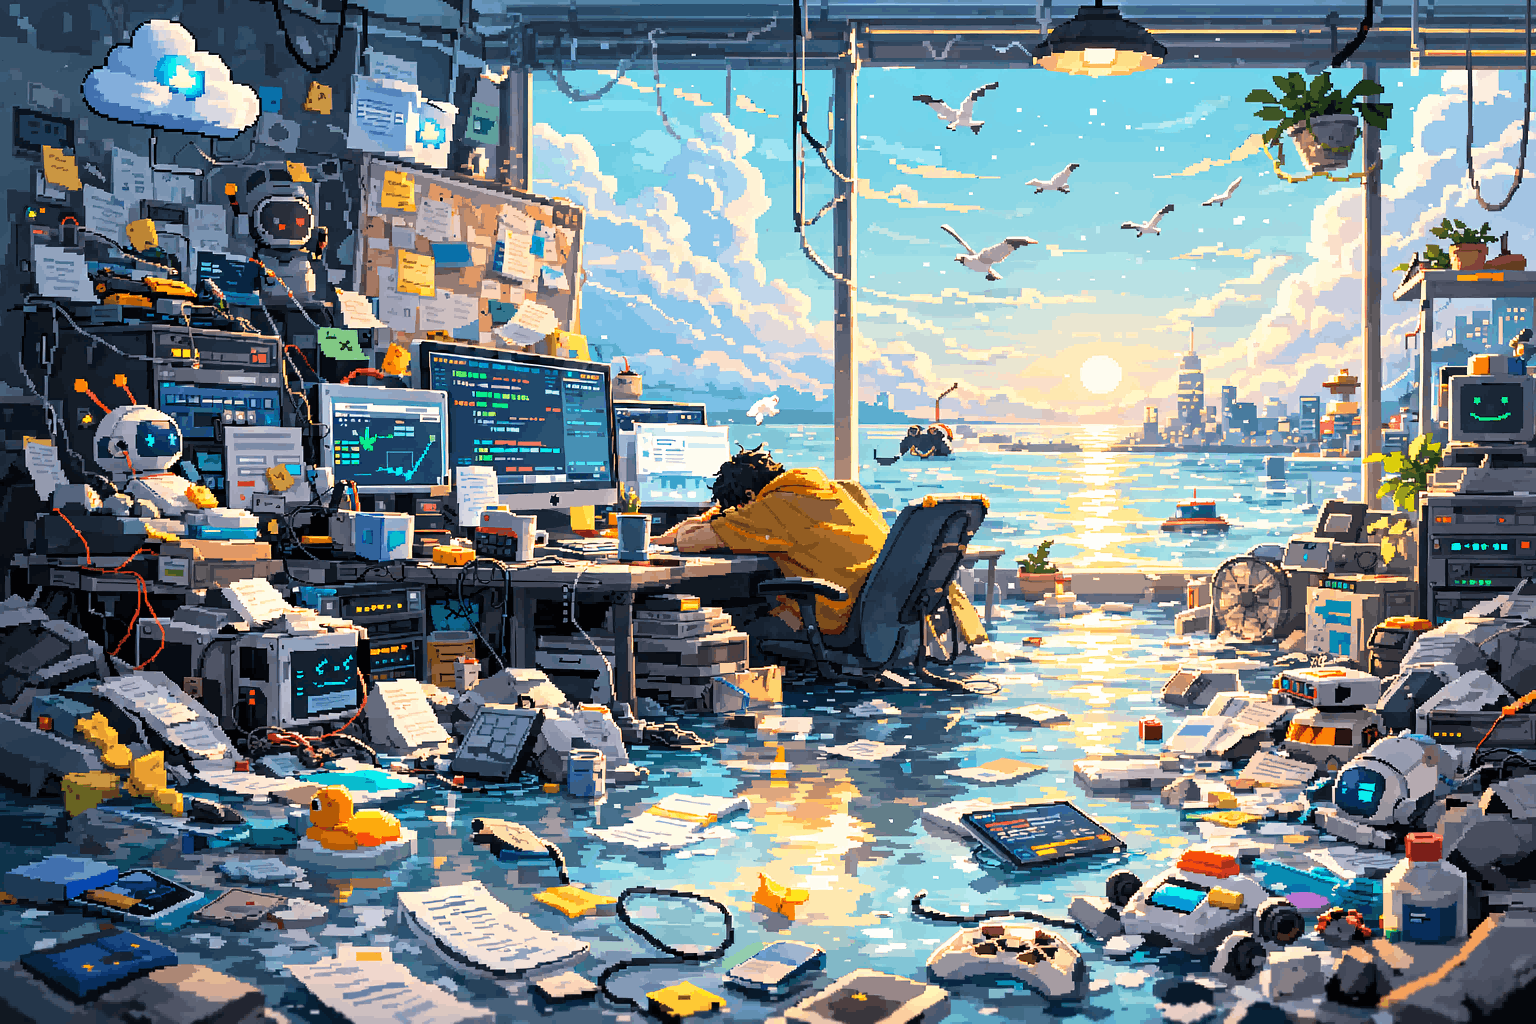
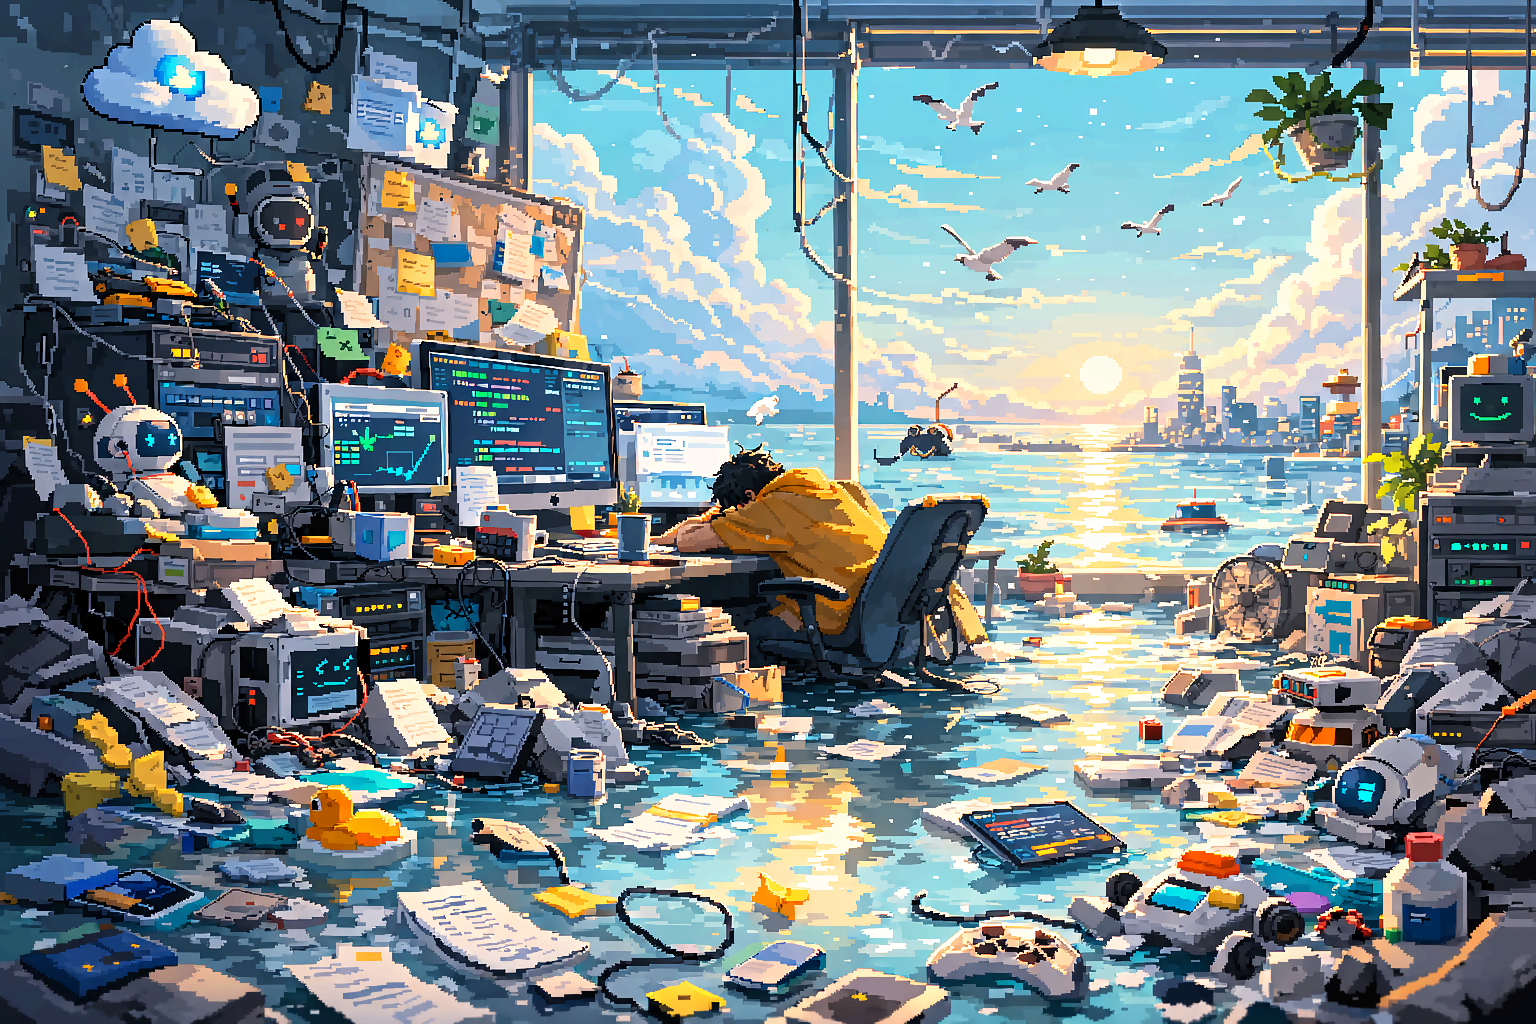
Restore native detail across the scene and keep cloud joins crisp

diff --git a/index.html b/index.html
@@ -8,38 +8,38 @@
   <title>jaq/li</title>
   <link rel="icon" href="./assets/favicon.svg" type="image/svg+xml" />
   <link rel="stylesheet" href="./styles.css?v=20261111-days42" />
-  <link rel="preload" href="./assets/scene-seed.webp?v=20261111-clarity46" as="image" fetchpriority="high" />
-  <script type="module" src="./scene-intro.js?v=20261111-clarity46"></script>
-  <link rel="preload" href="./assets/scene.webp?v=20261111-clarity46" as="fetch" crossorigin="anonymous" fetchpriority="low" />
-  <link rel="modulepreload" href="./pixel-scene.js?v=20261111-clarity46" />
+  <link rel="preload" href="./assets/scene-seed.webp?v=20261111-detail47" as="image" fetchpriority="high" />
+  <script type="module" src="./scene-intro.js?v=20261111-detail47"></script>
+  <link rel="preload" href="./assets/scene.webp?v=20261111-detail47" as="fetch" crossorigin="anonymous" fetchpriority="low" />
+  <link rel="modulepreload" href="./pixel-scene.js?v=20261111-detail47" />
   <link rel="modulepreload" href="./scene-extras.js?v=20261111-layer44" />
   <link rel="modulepreload" href="./scene-additions.js?v=20261111-edge45" />
   <link rel="modulepreload" href="./scene-deform.js?v=20261111-layer44" />
   <link rel="modulepreload" href="./scene-fan.js?v=20261111-sky43" />
   <link rel="modulepreload" href="./scene-time.js?v=20261111-layer44" />
   <link rel="modulepreload" href="./scene-beacon.js?v=20261111-layer44" />
-  <link rel="modulepreload" href="./scene-sky-matte.js?v=20261111-clarity46" />
-  <link rel="modulepreload" href="./scene-shelf-matte.js?v=20261111-clarity46" />
-  <link rel="modulepreload" href="./scene-sky.js?v=20261111-clarity46" />
+  <link rel="modulepreload" href="./scene-sky-matte.js?v=20261111-detail47" />
+  <link rel="modulepreload" href="./scene-shelf-matte.js?v=20261111-detail47" />
+  <link rel="modulepreload" href="./scene-sky.js?v=20261111-detail47" />
   <link rel="modulepreload" href="./scene-foliage.js?v=20261111-layer44" />
   <link rel="modulepreload" href="./scene-objects.js?v=20261111-sky43" />
-  <link rel="modulepreload" href="./site.config.js?v=20261111-clarity46" />
+  <link rel="modulepreload" href="./site.config.js?v=20261111-detail47" />
   <link rel="modulepreload" href="./scene-details.js?v=20261111-edge45" />
   <link rel="modulepreload" href="./screen-content.js?v=20261111-detail39" />
   <link rel="modulepreload" href="./scene-geometry.js?v=20261110-fps10" />
   <link rel="modulepreload" href="./scene-lights.js?v=20261111-flow28" />
   <link rel="modulepreload" href="./water-ripples.js?v=20261111-flow28" />
   <link rel="modulepreload" href="./navigation.js?v=20261111-detail39" />
-  <script type="module" src="./app.js?v=20261111-clarity46"></script>
+  <script type="module" src="./app.js?v=20261111-detail47"></script>
 </head>
 <body class="home pixel-home">
   <main id="scene-viewport" class="scene-viewport" aria-label="可探索的海边工作室">
     <div id="scene-world" class="scene-world">
       <img id="scene-image" class="scene-image" alt="海边工作室：电脑屏幕通往技术博客，人物通往个人 CV。" />
       <div class="scene-art">
-      <img id="scene-poster" class="scene-poster" data-src="./assets/scene.webp?v=20261111-clarity46" alt="" aria-hidden="true" />
+      <img id="scene-poster" class="scene-poster" data-src="./assets/scene.webp?v=20261111-detail47" alt="" aria-hidden="true" />
       <canvas id="scene-intro" aria-hidden="true"></canvas>
-      <noscript><img class="scene-poster" src="./assets/scene.webp?v=20261111-clarity46" style="display:block" alt="" /></noscript>
+      <noscript><img class="scene-poster" src="./assets/scene.webp?v=20261111-detail47" style="display:block" alt="" /></noscript>
       <canvas id="ascii-canvas" aria-hidden="true"></canvas>
       <canvas id="screen-canvas" aria-hidden="true"></canvas>
       </div>

diff --git a/scene-sky.js b/scene-sky.js
@@ -1,5 +1,5 @@
-import { prepareShelfMatte } from './scene-shelf-matte.js?v=20261111-clarity46';
-import { skyApertures, skyForeground, skyWires, sillSkyEdge } from './scene-sky-matte.js?v=20261111-clarity46';
+import { prepareShelfMatte } from './scene-shelf-matte.js?v=20261111-detail47';
+import { skyApertures, skyForeground, skyWires, sillSkyEdge } from './scene-sky-matte.js?v=20261111-detail47';
 const surface=(w,h)=>{const c=document.createElement('canvas');c.width=w;c.height=h;return c;};
 const smooth=t=>t*t*(3-2*t);
 // Lighting follows the complete visible sky. Motion has its own foreground
@@ -49,8 +49,8 @@ export function* prepareSky(scene){
  m.putImageData(alpha,0,0);yield .54;
  // Build the loop from unobstructed source-art patches. No columns from
  // behind a window frame, plant, desk or city can travel into the visible sky.
- // Adjacent patches overlap with a smooth crossfade, retaining pixel texture
- // instead of blurring/inpainting large hidden foreground regions.
+ // Join overlapping patches along their closest-color path. A wide crossfade
+ // superimposes two cloud contours and softens the restored pixels again.
  const patches=[
   {x:640,y:140,w:144,h:235}, {x:870,y:80,w:368,h:240},
   {x:640,y:140,w:144,h:235,flip:true}, {x:870,y:80,w:368,h:240,flip:true},
@@ -62,12 +62,29 @@ export function* prepareSky(scene){
   let rgb=cleanColors.get(i);if(!rgb){rgb=[0,0,0];let count=0;for(const offset of[-4,4,-1536*4,1536*4]){const j=i+offset;if(plate[j+1]<150||plate[j+2]<150)continue;for(let k=0;k<3;k++)rgb[k]+=plate[j+k];count++;}if(count)rgb=rgb.map(v=>v/count);else rgb=Array.from(plate.slice(i,i+3));cleanColors.set(i,rgb);}return rgb[c];
  };
  const sample=(p,x,y)=>((p.y+Math.floor(y*p.h/h))*1536+p.x+(p.flip?p.w-1-x:x))*4;
+ const seam=(p,previous)=>{
+  let cost=new Float64Array(overlap);const path=new Int8Array(h*overlap),cut=new Int16Array(h);
+  for(let y=0;y<h;y++){
+   const next=new Float64Array(overlap).fill(Infinity);
+   for(let x=1;x<overlap-1;x++){
+    const a=sample(p,x,y),b=sample(previous,previous.w-overlap+x,y);
+    let difference=0;for(let c=0;c<3;c++)difference+=(skyChannel(a,c)-skyChannel(b,c))**2;
+    let from=x,best=cost[x];
+    for(const dx of[-1,1])if(x+dx>0&&x+dx<overlap-1&&cost[x+dx]+12<best){from=x+dx;best=cost[from]+12;}
+    next[x]=best+difference;path[y*overlap+x]=from-x;
+   }
+   cost=next;
+  }
+  let x=1;for(let n=2;n<overlap-1;n++)if(cost[n]<cost[x])x=n;
+  for(let y=h-1;y>=0;y--){cut[y]=x;x+=path[y*overlap+x];}
+  return cut;
+ };
  let start=0;
  for(let n=0;n<patches.length;n++){
-  const p=patches[n],previous=patches[(n+patches.length-1)%patches.length],length=p.w-overlap;
+  const p=patches[n],previous=patches[(n+patches.length-1)%patches.length],length=p.w-overlap,cut=seam(p,previous);
   for(let y=0;y<h;y++)for(let x=0;x<length;x++){
-   const j=(y*sourceWidth+start+x)*4,i=sample(p,x,y),t=x<overlap?smooth(x/overlap):1,other=sample(previous,previous.w-overlap+x,y);
-   for(let c=0;c<3;c++)sourceImage.data[j+c]=t===1?skyChannel(i,c):skyChannel(other,c)*(1-t)+skyChannel(i,c)*t;
+   const j=(y*sourceWidth+start+x)*4,i=x<cut[y]?sample(previous,previous.w-overlap+x,y):sample(p,x,y);
+   for(let c=0;c<3;c++)sourceImage.data[j+c]=skyChannel(i,c);
    sourceImage.data[j+3]=255;
   }
   start+=length;yield .54+.24*(n+1)/patches.length;

diff --git a/scene-shelf-matte.js b/scene-shelf-matte.js
@@ -27,7 +27,9 @@ export function prepareShelfMatte(scene){
    const n=(py-y)*w+px-x,i=(py*1536+px)*4,r=src[i],g=src[i+1],b=src[i+2];
    let adjacent=false;for(let dy=-1;dy<=1&&!adjacent;dy++)for(let dx=-1;dx<=1;dx++)if(strong[n+dy*w+dx]){adjacent=true;break;}
    const priorCore=bracketRuns.some(([row,left,right])=>row===py&&px>=left&&px<=right);
-   const stem=priorCore&&Math.max(r,g,b)<175&&b<r*1.55;
+   // The traced prongs are geometry, not a brightness classification. Their
+   // pale edge pixels must survive restoration and different color palettes.
+   const stem=priorCore;
    const rim=adjacent&&(Math.max(r,g,b)<105||r>b*1.1&&r>g*.95);
    if(nearPrior(px,py)&&(px<left-1||strong[n]))coverage[n]=strong[n]||rim||stem?0:255;
   }

diff --git a/app.js b/app.js
@@ -1,8 +1,8 @@
-import { site } from './site.config.js?v=20261111-clarity46';
+import { site } from './site.config.js?v=20261111-detail47';
 import { detailShapes, detailPoint } from './scene-details.js?v=20261111-edge45';
-import { PixelScene } from './pixel-scene.js?v=20261111-clarity46';
+import { PixelScene } from './pixel-scene.js?v=20261111-detail47';
 import { loadSceneImage } from './scene-loader.js?v=20261110-depth6';
-import { sceneIntro } from './scene-intro.js?v=20261111-clarity46';
+import { sceneIntro } from './scene-intro.js?v=20261111-detail47';
 import './navigation.js?v=20261111-detail39';
 
 const viewport = document.querySelector('#scene-viewport');

diff --git a/scene-intro.js b/scene-intro.js
@@ -9,7 +9,7 @@ const alphabet='0123456789ABCDEFGHIJKLMNOPQRSTUVWXYZabcdefghijklmnopqrstuvwxyz@#
 let pixels,points=[],width=0,height=0,progress=0,head=0,timer,frame,done=false,blocked=false,marked=false;
 const hash=i=>{const n=Math.sin(i*127.1+31.7)*43758.5453;return n-Math.floor(n);};
 const seed=new Image();
-seed.src=new URL('./assets/scene-seed.webp?v=20261111-clarity46',import.meta.url).href;
+seed.src=new URL('./assets/scene-seed.webp?v=20261111-detail47',import.meta.url).href;
 
 function schedule(delay=40){
   if(done||blocked||document.hidden||!pixels||timer||frame)return;

diff --git a/pixel-scene.js b/pixel-scene.js
@@ -9,7 +9,7 @@ import { rippleSources } from './water-ripples.js?v=20261111-flow28';
 import { SceneExtras } from './scene-extras.js?v=20261111-layer44';
 import { SceneAdditions, additionalShapes } from './scene-additions.js?v=20261111-edge45';
 import { SceneTime } from './scene-time.js?v=20261111-layer44';
-import { prepareSky, drawSkyLayer } from './scene-sky.js?v=20261111-clarity46';
+import { prepareSky, drawSkyLayer } from './scene-sky.js?v=20261111-detail47';
 import { SceneBeacon } from './scene-beacon.js?v=20261111-layer44';
 
 const W=1536,H=1024;

diff --git a/site.config.js b/site.config.js
@@ -1,5 +1,5 @@
 export const site = {
-  image: './assets/scene.webp?v=20261111-clarity46', width: 1536, height: 1024,
+  image: './assets/scene.webp?v=20261111-detail47', width: 1536, height: 1024,
   // Coordinates refer to the original image, never the viewport.
   hotspots: [
     { id: 'tech', href: './tech/', label: '技术博客', hint: 'TECH BLOG ↗', hintAt: [497, 338], points: '423,347 608,367 600,493 422,478' },

diff --git a/README.md b/README.md
@@ -21,9 +21,9 @@ python3 -m http.server 8081 --bind 0.0.0.0
 
 入口多边形与目标链接位于 `site.config.js`，原图尺寸为 1536 × 1024。首页无上传、拖入图片或密度调整功能。
 
-渲染由 `pixel-scene.js` 完成。房间、人物、城市、水面和天空统一使用从原始 PNG 派生的全局像素化底图，保留构图和细节位置，画面不再全局换字或变化字号。`tools/prepare-pixel-scene.cjs` 只在离线准备时运行：原尺寸 2×2 区域内三个色道跨度均不超过 18 时归并相近色，高反差的细线与叶尖继续保留 1 px 细节；随后整图统一为原图派生的 256 色调色板，不抖动、不增强饱和度，以无损 WebP 保存。场景和动画裁片从同一底图提取，天空、水面和室内采用同一套像素处理。原始 PNG 不修改。显示画布固定为原图的 1536×1024，CSS 等比例铺满并使用最近邻放大，避免大屏增加渲染缓存；三块屏幕从字形到最终合成都保留 3 倍分辨率，使用覆盖屏幕区域的独立画布（1260×570），避免回落到房间的原图像素；主屏字号 5.6、左屏 6.2、右屏 5.8 源图像素，保留透视。主循环目标 60 Hz，云层随主循环逐帧平移，显示屏 24 Hz，动作使用真实时间。暂停、后台标签页与页面切换会停止调度。
+渲染由 `pixel-scene.js` 完成。房间、人物、城市、水面和天空统一使用从原始 PNG 派生的全局像素化底图，保留构图和细节位置，画面不再全局换字或变化字号。`tools/prepare-pixel-scene.cjs` 只在离线准备时运行：逐一处理全部 1,572,864 个原生像素，先在 5×5 邻域内按颜色相近程度清理细碎色差，再在 3×3 邻域收紧原有明暗过渡；结果限制在局部实际颜色范围内，避免锐化产生额外亮边或黑边。去掉上一版的 2×2 平均和 256 色限制，保留衣褶、纸面笔画、细线和暗部层次；只做最多 2 个色道等级的取整，以无损 WebP 保存，不重绘、不降采样、不放大色块。场景和动画裁片从同一底图提取，天空、水面和室内采用同一套像素处理。原始 PNG 不修改。显示画布固定为原图的 1536×1024，CSS 等比例铺满并使用最近邻放大，避免大屏增加渲染缓存；三块屏幕从字形到最终合成都保留 3 倍分辨率，使用覆盖屏幕区域的独立画布（1260×570），避免回落到房间的原图像素；主屏字号 5.6、左屏 6.2、右屏 5.8 源图像素，保留透视。主循环目标 60 Hz，云层随主循环逐帧平移，显示屏 24 Hz，动作使用真实时间。暂停、后台标签页与页面切换会停止调度。
 
-`scene-objects.js` 保存海鸥航线、轮廓、水面区域与头发遮挡，供像素场景和保留的旧 ASCII 渲染器共同使用。五只海鸥沿原来的独立曲线飞行并扇翼；浮鸭、船、纸张、罐子等按 `scene-details.js` 和 `scene-floats.js` 的原有周期漂浮。纸张从固定端摆动、衣角轻动、机器人眨眼与换表情、机械云彩色呼吸灯均保留；顶部吊灯每 3.5 秒短暂暗闪一次（约 0.26 秒），仅作用于暖色灯面，随全局暂停和减少动态设置停用；人物躯干和城市保持静止。物体裁片只在初始化提取；完整轮廓包含平板右侧边框、纸张卷边、罐口、手机外壳和玩具车轮。漂浮物裁片使用清晰、不透明的完整轮廓，不携带外围渐变水面；静态补底独立清理约 3 px 的旧边缘。补底按实际水面区域取样，保留暗水面和亮反光，排除相邻物体外壳，避免亮圈和边框残影。鸭子额外去掉与外部相连的蓝色水面，不挖空内部细节。纸张以固定端为轴整张变形，不使用水平分条。漂浮物及纸张只在运动变换时使用局部亚像素采样，避免小角度旋转逐列跳到相邻像素行、形成扫过物体的竖线；场景底图仍按原尺寸和最近邻方式显示，无全屏模糊或额外高分辨率画布。海鸥原位置使用邻近天空色修复。`scene-sky.js` 从原图无遮挡的天空区域构建循环纹理，拼接处重叠渐变，以每秒 12 源图像素持续向右漂移，约 69.3 秒完成一轮；不再左右往返。单个不透明 CanvasPattern 覆盖原天空，避免循环接缝露出静止云层；`scene-sky-matte.js` 按物体完整轮廓保护告示板、显示器亮边、桌边容器、主城、花盆、窗框，以及右侧架子支撑柱、机器人完整外壳和后方终端；天空不再按全局颜色阈值抠选，避免只留下物体的深色碎边、吃掉高光。左窗与中窗下方的旧蓝色岸线、白色花状物已移除，天空在源图 y=428–429 用两行覆盖度接入 y=430 的海平线；下方残留的灰色岸线以附近的远水面补齐，浮标机器人和右侧主城保留。窗台斜板仅沿外侧窄边清除旧蓝天残色。`scene-shelf-matte.js` 用图像工具抠图所得的支架轮廓辅助原生像素分层，保留柱子左侧折弯支架的两根细脚，并对柱子的一像素边界去除旧天空混色。`assets/mattes/shelf-support-prior.png` 仅用于离线重建轮廓（`node tools/prepare-shelf-matte.cjs`），网页不下载该图片；主场景采用原始 PNG 的确定性像素整理结果，不采用生成式重制版本。夕阳单独保留。天空调色采用完整的可见天空遮罩，与云层运动遮罩分离，避免窗柱附近出现漏调色的矩形色块。纹理与遮罩仅在初始化生成；动画不读取画布或逐帧分配图像缓存。
+`scene-objects.js` 保存海鸥航线、轮廓、水面区域与头发遮挡，供像素场景和保留的旧 ASCII 渲染器共同使用。五只海鸥沿原来的独立曲线飞行并扇翼；浮鸭、船、纸张、罐子等按 `scene-details.js` 和 `scene-floats.js` 的原有周期漂浮。纸张从固定端摆动、衣角轻动、机器人眨眼与换表情、机械云彩色呼吸灯均保留；顶部吊灯每 3.5 秒短暂暗闪一次（约 0.26 秒），仅作用于暖色灯面，随全局暂停和减少动态设置停用；人物躯干和城市保持静止。物体裁片只在初始化提取；完整轮廓包含平板右侧边框、纸张卷边、罐口、手机外壳和玩具车轮。漂浮物裁片使用清晰、不透明的完整轮廓，不携带外围渐变水面；静态补底独立清理约 3 px 的旧边缘。补底按实际水面区域取样，保留暗水面和亮反光，排除相邻物体外壳，避免亮圈和边框残影。鸭子额外去掉与外部相连的蓝色水面，不挖空内部细节。纸张以固定端为轴整张变形，不使用水平分条。漂浮物及纸张只在运动变换时使用局部亚像素采样，避免小角度旋转逐列跳到相邻像素行、形成扫过物体的竖线；场景底图仍按原尺寸和最近邻方式显示，无全屏模糊或额外高分辨率画布。海鸥原位置使用邻近天空色修复。`scene-sky.js` 从原图无遮挡的天空区域构建循环纹理，在重叠区域寻找颜色差异最小的连续接缝并保留两侧原生像素，避免宽渐变叠出模糊的双层云边；以每秒 12 源图像素持续向右漂移，约 69.3 秒完成一轮；不再左右往返。单个不透明 CanvasPattern 覆盖原天空，避免循环接缝露出静止云层；`scene-sky-matte.js` 按物体完整轮廓保护告示板、显示器亮边、桌边容器、主城、花盆、窗框，以及右侧架子支撑柱、机器人完整外壳和后方终端；天空不再按全局颜色阈值抠选，避免只留下物体的深色碎边、吃掉高光。左窗与中窗下方的旧蓝色岸线、白色花状物已移除，天空在源图 y=428–429 用两行覆盖度接入 y=430 的海平线；下方残留的灰色岸线以附近的远水面补齐，浮标机器人和右侧主城保留。窗台斜板仅沿外侧窄边清除旧蓝天残色。`scene-shelf-matte.js` 用图像工具抠图所得的支架轮廓辅助原生像素分层，保留柱子左侧折弯支架的两根细脚，并对柱子的一像素边界去除旧天空混色。`assets/mattes/shelf-support-prior.png` 仅用于离线重建轮廓（`node tools/prepare-shelf-matte.cjs`），网页不下载该图片；支架的两根细脚按轮廓保护，不再依赖容易被清晰化改变的亮度阈值；主场景采用原始 PNG 的确定性像素整理结果，不采用生成式重制版本。夕阳单独保留。天空调色采用完整的可见天空遮罩，与云层运动遮罩分离，避免窗柱附近出现漏调色的矩形色块。纹理与遮罩仅在初始化生成；动画不读取画布或逐帧分配图像缓存。
 
 `scene-extras.js` 补充十处独立动作：杯口三缕像素蒸汽、小风扇转动、黄色吊牌摆动、窗台植物三组叶片、绿色机器人眨眼与四种表情、右下圆机器人眼睛转动与眨眼、左机架异步活动灯、右机架间歇追逐灯、前景线缆中段浮动、窗前七颗微尘。风扇由 `scene-fan.js` 分为静止背景、三片独立金属扇叶、网罩和轮毂，透明扇叶之间能看到固定背景；`scene-foliage.js` 将吊盆、窗台植物和右侧机架旁的黄绿色垂叶拆成十九组叶片，使用 `scene-deform.js` 连续弯曲、错开相位，茎根与花盆固定；相较初版叶片摆幅增加约 50%，频率增加约 45%，裁片留出完整的摆动空间；每个源像素只分配给一组叶片，三处植物分别统一提取和补底，排除相邻叶片作为背景采样来源。深色轮廓一起移动，跨窗柱部分按窗柱的位置和原有明暗补齐；叶片调色独立于天空遮罩；吊牌在挂点转动，线缆连接端不动。线缆只对小裁片做连续反向采样和预乘透明度插值，避免分条、竖向扫描与暗边。缓存仅在准备阶段提取，逐帧不读取画布、不下载新图、不开独立计时器，随场景统一暂停。
 
@@ -53,9 +53,11 @@ python3 -m http.server 8081 --bind 0.0.0.0
 
 ASCII 仅用于三块电脑屏幕中的代码、波形、频谱与状态信息，以及开场字符生成、页面切换的字符打散/重组。`screen-content.js` 与 `scene-geometry.js` 保留显示器的四角透视；独立的头发与运动纸张遮罩保证高清屏幕位于前景后方，像素边框保留；暂停、旋转、滑动和转场同步两个画布。水面采用低分辨率像素高光、椭圆涟漪与小反光，限制在实际水面区域，并由漂浮物覆盖。
 
-首屏由独立的 `scene-intro.js` 读取约 9 KiB 的 `assets/scene-seed.webp`，用实际字符逐步形成轮廓。真实下载与物体准备进度驱动生成目标；每次最多新增 280 字、刷新最近 180 字。完整场景就绪后释放临时画布和数组，不强制等待开场动画。正常访问只下载色彩图和约 452 KiB 的无损 `scene.webp`；不加载原始 PNG、ASCII 预览、色彩底光、字形图集或旧 Worker 模块。加载失败或禁用 JavaScript 时显示静态像素图，入口仍可访问。
+首屏由独立的 `scene-intro.js` 读取约 9 KiB 的 `assets/scene-seed.webp`，用实际字符逐步形成轮廓。真实下载与物体准备进度驱动生成目标；每次最多新增 280 字、刷新最近 180 字。完整场景就绪后释放临时画布和数组，不强制等待开场动画。正常访问只下载色彩图和约 1.00 MiB 的无损 `scene.webp`；不加载原始 PNG、ASCII 预览、色彩底光、字形图集或旧 Worker 模块。加载失败或禁用 JavaScript 时显示静态像素图，入口仍可访问。
 
 旧 `ascii-renderer.js`、Worker 与图集代码暂保留为历史参考及旧画面导出工具，首页不加载它们。`tools/prepare-scene.cjs` 调用全局像素整理流程更新 WebP 和加载色彩图；其中 ASCII 预览/底光输出不参与当前首页。
+
+可使用 `node tools/review-pixel-scene.cjs BEFORE AFTER OUTPUT_DIRECTORY` 导出覆盖全图的 4×4 对照网格，每块都以同样的 2 倍最近邻放大检查。清晰化改善已有像素过渡，不凭空补绘原图未记录的细节；离线处理不增加逐帧计算或画布缓存。
 
 ## 内容映射
 
